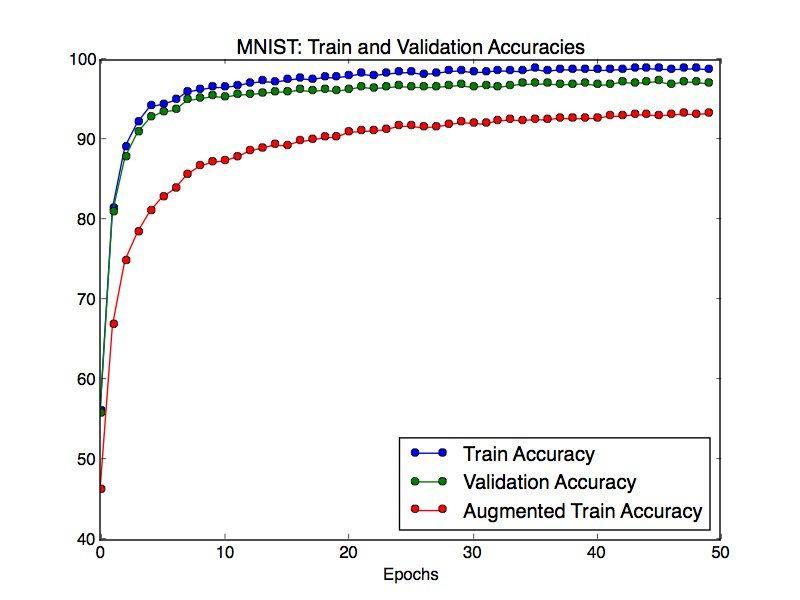
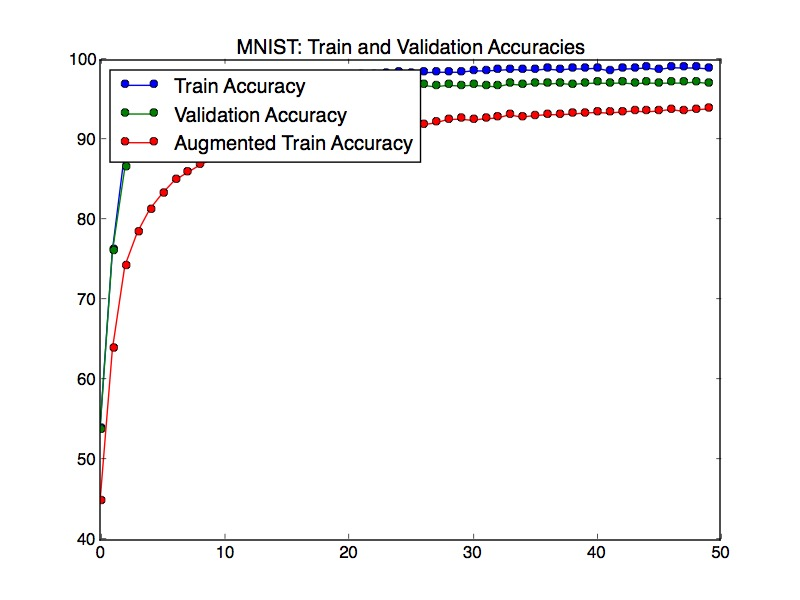
tweaks for consistent plotting

Changed region(s): [[0.125, 0.09, 0.9062, 0.84], [0.5, 0.72, 0.9062, 0.9], [0.4688, 0.93, 0.5625, 0.99]]

diff --git a/mnist_pytorch.py b/mnist_pytorch.py
@@ -286,21 +286,26 @@ def test(epoch, loader, test_type):
 
 train_accs=[]
 dev_accs=[]
-#orig_accs=[]
+orig_accs=[]
 for epoch in range(1, args.epochs + 1):
     
     train(epoch)
-    c_train_acc = test(epoch, train_loader, 'Train')
+    c_train_acc = test(epoch, train_loader, 'Augmented Train')
     c_dev_acc = test(epoch, valid_loader, 'Dev')
-    c_orig_acc = test(epoch, orig_loader, 'Orig')
+    c_orig_acc = test(epoch, orig_loader, 'Orig Train')
 
     dev_accs.append(c_dev_acc) #updates loss for plot 
     train_accs.append(c_train_acc) 
-    #orig_accs.append(c_orig_acc)
+    orig_accs.append(c_orig_acc)
 
-#plt.plot(np.arange(args.epochs), orig_accs, marker='o', label='Orig Accuracy')
-"""plt.plot(np.arange(args.epochs), dev_accs, marker='o', label='Validation Accuracy')
-plt.plot(np.arange(args.epochs), train_accs, marker='o', label='Train Accuracy')
+print (train_accs)
+print (dev_accs)
+print (orig_accs)
+
+plt.plot(np.arange(args.epochs), orig_accs, marker='o', label='Train Accuracy')
+plt.plot(np.arange(args.epochs), dev_accs, marker='o', label='Validation Accuracy')
+plt.plot(np.arange(args.epochs), train_accs, marker='o', label='Augmented Accuracy')
+plt.xlabel('Epochs')
 plt.title('MNIST: Train and Validation Accuracies')
-plt.legend(loc='upper left')
-plt.savefig('accuracies_with_distortion.jpg')"""
+plt.legend(loc='bottom right')
+plt.savefig('plots/accuracies.jpg')
